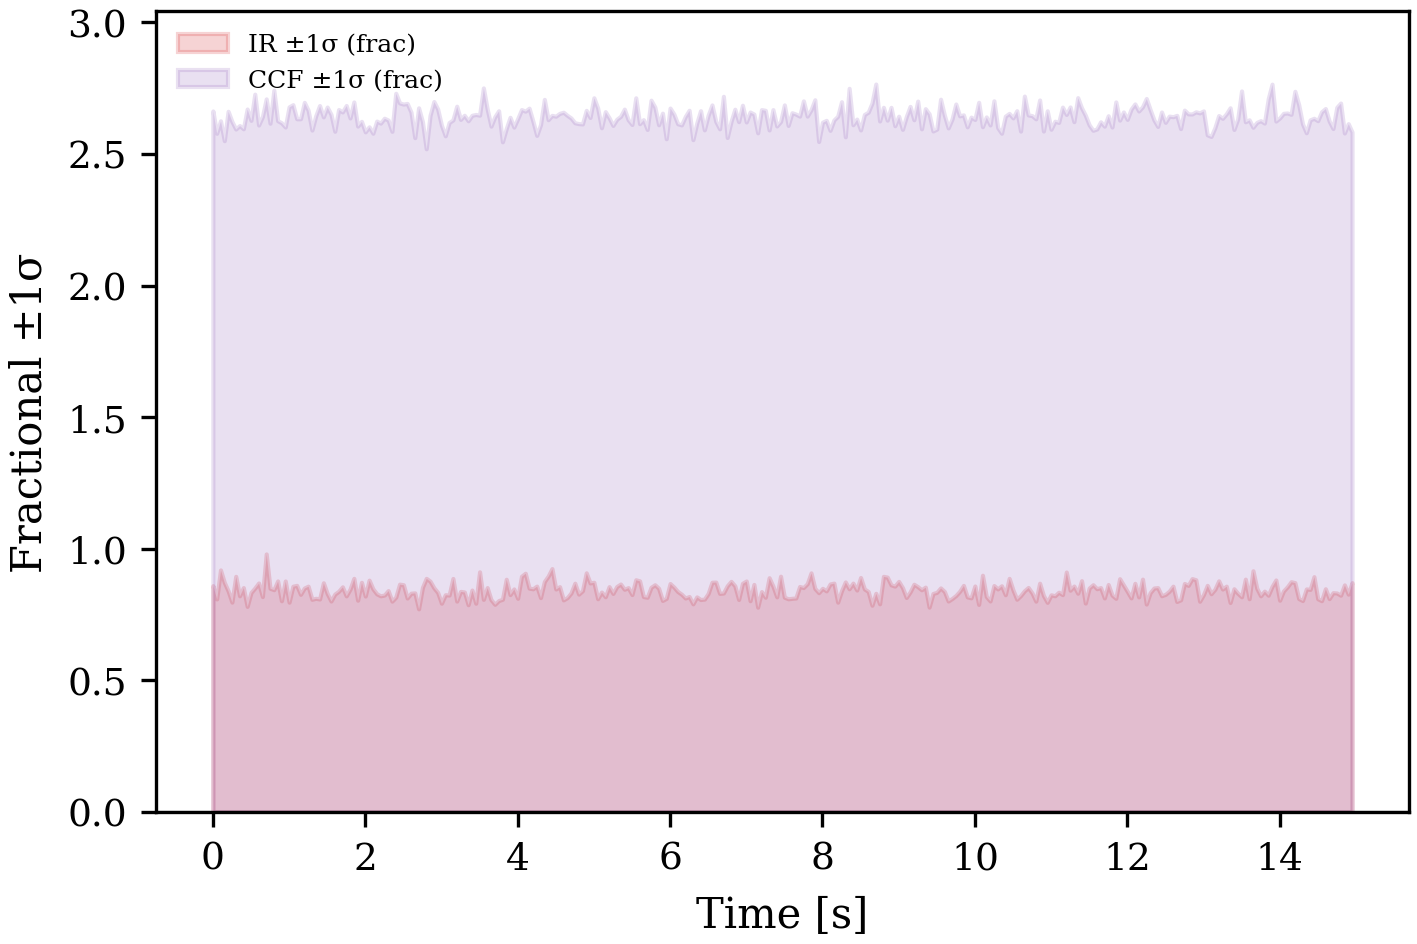
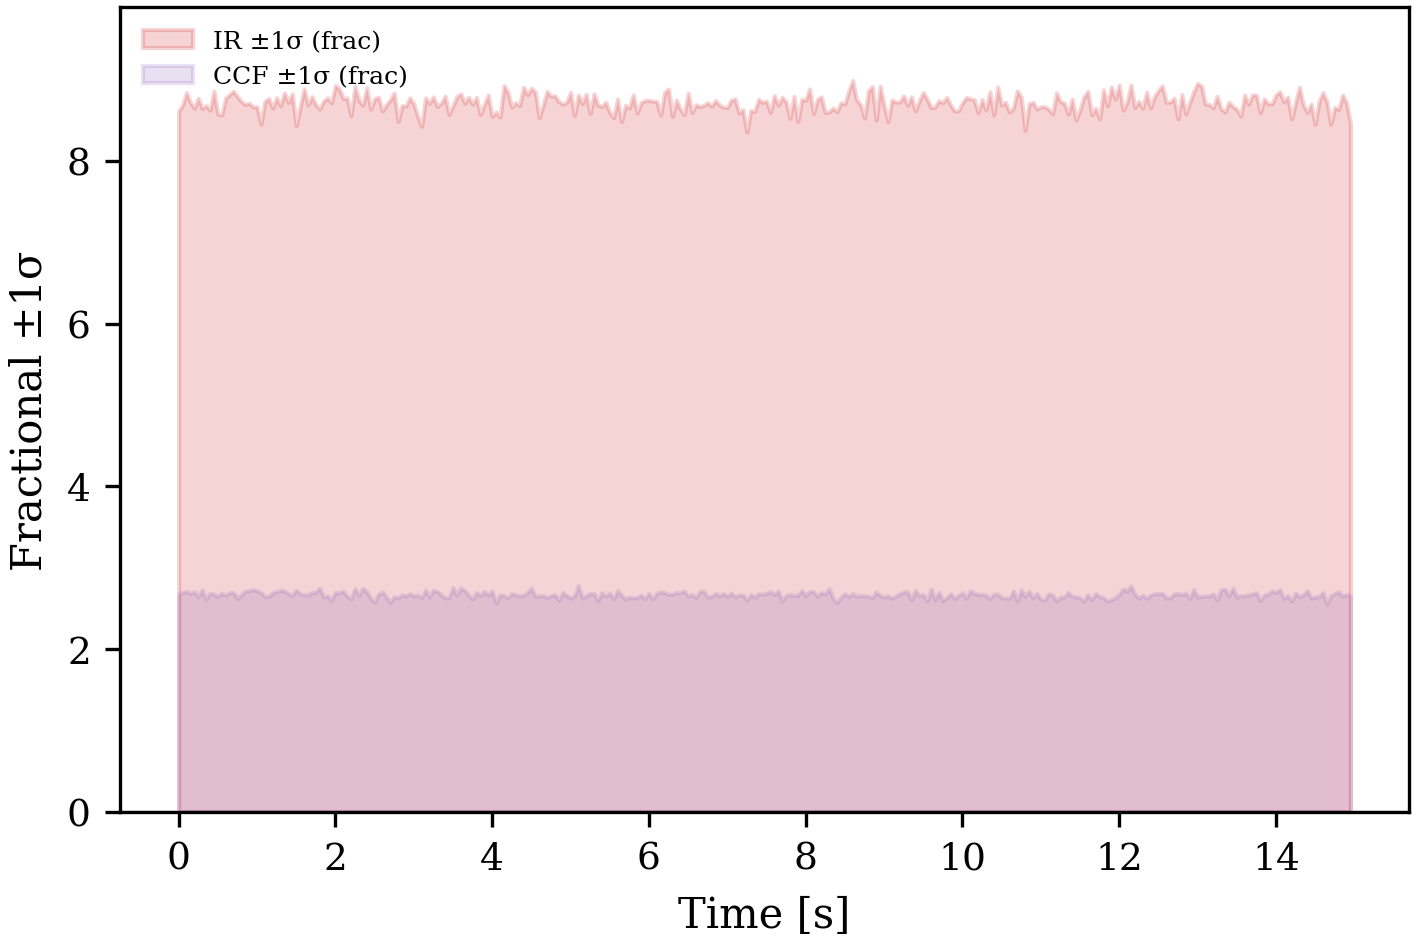
Updated paper with final experiment 2 ANT.

diff --git a/paper/stochastic_process_impulse_response_models.tex b/paper/stochastic_process_impulse_response_models.tex
@@ -41,7 +41,7 @@ This is a draft version of work in progress, content will be revisited in subseq
 
 
 \begin{abstract}
-The identification of Linear Time-Varying (LTV) systems from input-output data is a fundamental yet challenging ill-posed inverse problem. This work introduces a unified Bayesian framework that models the system's impulse response, $h(t, \tau)$, as a stochastic process. We decompose the response into a posterior mean and a random fluctuation term, a formulation that provides a principled approach for quantifying uncertainty, unifies intrinsic channel variability and epistemic uncertainty through a common posterior representation, and naturally defines a new, useful system class we term Linear Time-Invariant in Expectation (LTIE). To perform inference, we leverage modern machine learning techniques, including Bayesian neural networks and Gaussian Processes, using scalable variational inference. We demonstrate through a series of experiments that our framework can infer the properties of an LTI system from a single noisy observation, including under deliberate additive-noise misspecification, exhibits favorable data efficiency compared to classical methods in a simulated ambient noise tomography problem, and can track a continuously varying LTV impulse response by using a structured Gaussian Process prior. This work provides a flexible and robust methodology for uncertainty-aware system identification in dynamic environments.
+The identification of Linear Time-Varying (LTV) systems from input-output data is a fundamental yet challenging ill-posed inverse problem. This work introduces a unified Bayesian framework that models the system's impulse response, $h(t, \tau)$, as a stochastic process. We decompose the response into a posterior mean and a random fluctuation term, a formulation that provides a principled approach for quantifying uncertainty, unifies intrinsic channel variability and epistemic uncertainty through a common posterior representation, and naturally defines a new, useful system class we term Linear Time-Invariant in Expectation (LTIE). To perform inference, we leverage modern machine learning techniques, including Bayesian neural networks and Gaussian Processes, using scalable variational inference. We demonstrate through a series of experiments that our framework can infer the properties of an LTI system from a single noisy observation, including under deliberate additive-noise misspecification, exhibits convergence to lower overall error floor compared to classical methods in a simulated ambient noise tomography problem, and can track a continuously varying LTV impulse response by using a structured Gaussian Process prior. This work provides a flexible and robust methodology for uncertainty-aware system identification in dynamic environments.
 \end{abstract}
 
 \end{frontmatter}
@@ -297,7 +297,7 @@ A synthetic ambient noise field was generated using a ground-truth dispersive ve
 \begin{enumerate}
     \item \textbf{Classical CCF Stacking:} Signal pairs were preprocessed with spectral whitening, segmented into windows, and cross-correlated; the resulting correlations were then averaged (stacked) to produce a single empirical CCF, following the standard ANT workflow \citep{Bensen2007}. This stacked CCF serves as an estimate of the impulse response.
 
-    \item \textbf{Bayesian Regression:} Our model operated directly on the raw (non-whitened) signal pairs. It was used to deconvolve the source characteristics and infer an approximate posterior distribution for the true impulse response. The mean of this approximate posterior (Mean Impulse Response, or MIR) serves as our final estimate. The variational objective used the same KL normalization convention as in the previous experiments, namely scaling with the number of statistically distinct training pairs rather than the computational batch size.
+    \item \textbf{Bayesian Regression:} Our model operated directly on the raw (non-whitened) signal pairs. It was used to deconvolve the source characteristics and infer an approximate posterior distribution for the true impulse response. The mean of this approximate posterior (Mean Impulse Response, or MIR) serves as our final estimate. The variational objective used the same KL normalization convention as in the previous experiments, namely scaling with the number of statistically distinct training pairs rather than the computational batch size. In this ANT experiment, the Gaussian data-fit term used a residual-estimated observation-noise scale, so the weighting $\lambda = 1/(2\hat{\sigma}_{\mathrm{obs}}^2)$ was updated during training via a non-trainable moving-average estimate outside backpropagation.
 \end{enumerate}
 
 For both methods, the final step was to derive the phase velocity curve from the estimated impulse response. This was achieved by fitting the frequency-domain representation of the estimate against theoretical beam patterns derived from the zeroth-order Bessel function of the first kind ($J_0$), following the standard spectral formulation used in ANT \citep{Aki1957, Ekstrom2009}.
@@ -305,11 +305,11 @@ For both methods, the final step was to derive the phase velocity curve from the
 Accordingly, this ANT comparison should be interpreted as a comparison between practical end-to-end pipelines rather than as a strictly preprocessing-matched estimator comparison. The distinction matters because the classical CCF baseline benefits from whitening for phase-based recovery, whereas our Bayesian method is designed to operate on raw data and to retain spectral-amplitude information relevant to impulse-response inference.
 
 \subsubsection{Results and Discussion}
-Both methods effectively recovered the underlying velocity structure, but in these simulations the Bayesian approach showed lower error and better data efficiency. A visual comparison of the Green's function estimates using 2000 signal pairs (Figures~\ref{fig:ant_ccf_estimate} and \ref{fig:ant_mir_estimate}) shows that the Bayesian MIR is smoother and exhibits a tighter uncertainty band. These bands should be interpreted with care: for the classical CCF estimate the plotted band is an empirical standard deviation across stacked estimates, whereas for the Bayesian MIR it is posterior epistemic uncertainty, so the two are not identical statistical objects. This is quantified in Figure~\ref{fig:ant_quantitative_comparison}, where the MIR exhibits lower relative uncertainty and lower velocity estimation error across much of the frequency spectrum. The reason for this improved performance is evident in the velocity misfit maps (Figure~\ref{fig:ant_misfit_maps_comparison}), where the Bayesian method produces a clearer result.
+Both methods effectively recovered the underlying velocity structure, but in these simulations the Bayesian approach showed lower error floor. A visual comparison of the Green's function estimates using 2000 signal pairs (Figures~\ref{fig:ant_ccf_estimate} and \ref{fig:ant_mir_estimate}) shows that the Bayesian MIR is smoother and exhibits a tighter uncertainty band. These bands should be interpreted with care: for the classical CCF estimate the plotted band is an empirical standard deviation across stacked estimates, whereas for the Bayesian MIR it is posterior epistemic uncertainty, so the two are not identical statistical objects. This is quantified in Figure~\ref{fig:ant_quantitative_comparison}, where the MIR exhibits lower relative uncertainty and lower velocity estimation error across much of the frequency spectrum. The reason for this improved performance is evident in the velocity misfit maps (Figure~\ref{fig:ant_misfit_maps_comparison}), where the Bayesian method produces a clearer result.
 
-In the standard experiment (without quantization), our Bayesian model (MIR) shows better performance than the classical CCF method in this simulated setting, approaching a lower error floor in Figure~\ref{fig:ant_error_vs_num_pairs}, which plots the estimation error as a function of the number of pairs. With sufficient data, our method reached a minimum error of approximately 0.213 compared to 0.268 for the classical approach.
+In the standard experiment (without quantization), our Bayesian model (MIR) shows better performance than the classical CCF method in this simulated setting, approaching a lower error floor in Figure~\ref{fig:ant_error_vs_num_pairs}, which plots the estimation error as a function of the number of pairs. Over the sweep from 1000 to 15{,}000 pairs, the MIR achieved a lower mean target-curve error (0.225 versus 0.245 for CCF) and a lower minimum error (approximately 0.188 versus 0.201 for CCF). In a representative 12{,}000-pair run, the MIR mean error using the recovered velocity curve was approximately 0.207, compared with 0.262 for the classical method.
 
-A similar trend was observed in a more challenging scenario involving aggressive 1-bit quantization of the signals. While both methods remained effective, our Bayesian model again showed lower error in these simulations. For example, with 10,000 pairs, our model's error was approximately 0.258, while the classical method's error was 0.316. In this setting, the performance of the CCF method appeared to saturate more quickly, whereas our Bayesian approach continued to improve as more pairs were included.
+A similar trend was observed in a more challenging scenario involving aggressive 1-bit quantization of the signals. While both methods remained effective, our Bayesian model again showed lower error in these simulations. Using the same settings except for doubling the Bayesian batch size, the MIR achieved a lower mean target-curve error across the 1000 to 15{,}000 pair sweep (0.241 versus 0.269 for CCF) and a lower minimum error (approximately 0.178 versus 0.221 for CCF). With 15{,}000 pairs, the MIR mean error at the true velocity was approximately 0.191, while the classical method's error was 0.242.
 
 The results suggest that by learning a complete probabilistic model of the impulse response rather than simply averaging correlations, our method can extract system properties more accurately and from fewer observations in this simulated setting. This is particularly advantageous in data-limited scenarios and highlights the practical benefits of the Bayesian framework. A significant qualitative advantage of our approach is that it does not require the spectral whitening step common in classical ANT pipelines \citep{Bensen2007}. While whitening often improves the quality of Green's function estimates in the classical phase-focused pipeline, it also alters the original spectral amplitudes of the transfer function. By working with the raw data, our method retains the system's frequency response, allowing for an estimation of the transfer function between the virtual source and receiver. This task is more challenging in classical pipelines where the effects of whitening are difficult to reverse.
 
@@ -349,7 +349,7 @@ As in the single-observation LTI experiment, this result should therefore be int
 
 This paper introduced a unified Bayesian framework for modeling and estimating linear time-varying systems. By representing uncertainty directly at the level of the latent impulse response, the framework provides a posterior interpretation that connects deterministic LTI systems, fully stochastic channels, and LTIE laws over impulse responses. A particular strength of this viewpoint is that intrinsic channel variability and epistemic uncertainty are unified through the same posterior representation, while additive observation noise can be treated as a separate observation layer when needed. When the true data-generating mechanism instead includes a separate additive observation-noise term, the resulting posterior should be interpreted as an uncertainty-aware inferential representation rather than as a literal claim about the physical source of all randomness.
 
-We demonstrated the practical utility and robustness of this framework through a series of experiments. Our results showed that by leveraging modern tools like Bayesian neural networks and variational inference, we can solve the classic, ill-posed deconvolution problem for an LTI system from a single noisy observation, successfully quantifying the estimation uncertainty. In a simulated geophysical application, our Bayesian approach showed better data efficiency than the classical cross-correlation stacking method. Furthermore, we demonstrated that by incorporating a Gaussian Process as a structured temporal prior, our framework can track a continuously varying LTV impulse response in the simulated setting considered here, a task that is challenging for many standard techniques.
+We demonstrated the practical utility and robustness of this framework through a series of experiments. Our results showed that by leveraging modern tools like Bayesian neural networks and variational inference, we can solve the classic, ill-posed deconvolution problem for an LTI system from a single noisy observation, successfully quantifying the estimation uncertainty. In a simulated geophysical application, our Bayesian approach showed convergence to lower overall error floor than the classical cross-correlation stacking method. Furthermore, we demonstrated that by incorporating a Gaussian Process as a structured temporal prior, our framework can track a continuously varying LTV impulse response in the simulated setting considered here, a task that is challenging for many standard techniques.
 
 The primary implication of this work is that the fusion of classical system theory with probabilistic machine learning offers a more complete and honest assessment of system behavior. The ability to propagate uncertainty from the impulse response to any derived quantity such as a denoised signal or a cross-correlation function is critical for robust decision-making in fields like control theory, communications, and geophysics.
 
@@ -373,7 +373,7 @@ The input signal was a single series from the UCR ``Earthquakes'' dataset. The g
 A repeated synthetic calibration study was also run with $100$ outer replications, known noise standard deviation $0.5$, and pointwise tapwise coverage checks for the approximate variational posterior. For $1$ independent observation pair, nominal $90\%$ and $95\%$ intervals achieved empirical coverages of $97.5\%$ and $99.4\%$, with mean interval widths $0.124$ and $0.147$. For $20$ independent pairs, both nominal levels achieved $100\%$ empirical coverage with mean widths $0.090$ and $0.107$, and for $50$ independent pairs the corresponding mean widths were $0.089$ and $0.106$. Thus, in this synthetic LTIE setting, the pointwise intervals were conservative, while uncertainty contracted substantially as more independent observations were added.
 
 \paragraph{ANT experiment.}
-The synthetic ANT dataset comprised $10{,}000$ receiver pairs, each of length $1200$ samples, with sample rate $20$ Hz, receiver spacing $9000$ m, and additive Gaussian noise standard deviation $0.1$. Each pair was generated from $10{,}000$ decaying sinusoidal source pulses of length $50$ samples, with random amplitude in $[-1.5,1.5]$, random frequency in $[0.1,10]$ Hz, and decay constant $\tau \in [0.5,2.5]$; the target dispersive curve was anchored at $(0.1~\text{Hz},3500~\text{m/s})$, $(1~\text{Hz},3000~\text{m/s})$, and $(10~\text{Hz},1000~\text{m/s})$. The Bayesian LTIE estimator used \texttt{batch\_size\_base}=2000, $\alpha=1$, $1500$ epochs, and Adam with the same $4\%$ warmup/cosine schedule and target learning rate $0.1$. Performance was evaluated for $50$, $100,200,\ldots,1000$, and $2000,3000,\ldots,10000$ pairs, on a velocity grid from $500$ to $5000$ m/s with $226$ points and a frequency grid from $0.1$ to $4.0$ Hz with $300$ points. The standard experiment in the main text did not use 1-bit quantization, and the Bayesian MIR was trained directly on non-whitened signal pairs. The shaded CCF bands are empirical mean $\pm 1$ standard deviation across selected pairs, while the velocity-misfit uncertainty bands are pointwise $2.5\%$--$97.5\%$ sample percentiles.
+The synthetic ANT dataset comprised up to $15{,}000$ IID receiver pairs, each of length $1200$ samples, with sample rate $20$ Hz, receiver spacing $9000$ m, and additive Gaussian noise standard deviation $0.1$. Each pair was generated from $10{,}000$ decaying sinusoidal source pulses of length $50$ samples, with random amplitude in $[-1.5,1.5]$, random frequency in $[0.1,10]$ Hz, and decay constant $\tau \in [0.5,2.5]$; the target dispersive curve was anchored at $(0.1~\text{Hz},3500~\text{m/s})$, $(1~\text{Hz},3000~\text{m/s})$, and $(10~\text{Hz},1000~\text{m/s})$. The Bayesian LTIE estimator used \texttt{batch\_size\_base}=2000, $\alpha=1$, $500$ epochs, and Adam with the same $4\%$ warmup/cosine schedule and target learning rate $0.1$. In the full-precision experiment, the Gaussian data-fit weight used a residual-estimated observation-noise scale. Performance was evaluated for $1000,2000,\ldots,15000$ pairs, on a velocity grid from $500$ to $5000$ m/s with $226$ points and a frequency grid from $0.1$ to $3.0$ Hz with $300$ points. The standard experiment in the main text did not use 1-bit quantization, and the Bayesian MIR was trained directly on non-whitened signal pairs. For the 1-bit experiment, the same settings were used except that \texttt{batch\_size\_base} was increased to $4000$. The shaded CCF bands are empirical mean $\pm 1$ standard deviation across selected pairs, while the velocity-misfit uncertainty bands are pointwise $2.5\%$--$97.5\%$ sample percentiles.
 
 \paragraph{LTV experiment.}
 The ground-truth time-varying FIR used $16$ taps and was formed by smoothly interpolating between three FIRs generated with \texttt{firwin} cutoffs $[0.05,0.4,0.6,0.95]$, $[0.2,0.93]$, and $[0.09,0.89]$, each with width $0.05$ and \texttt{pass\_zero=False}. The observed signal used additive Gaussian noise with standard deviation $0.2$. Local inference windows had length $32$ and were extracted at unit stride; the $291$ unique windows were tiled twice for training, yielding tensors of shapes $(582,32,1)$, $(582,32,16)$, and $(582,32)$. The amortized variational model used $64$ initial CNN filters and a GP prior with RBF amplitude $2.0$, length scale $16$, kernel jitter $10^{-5}$, and KL scaling $5 \times 10^{-5}$. Training used Adam with cosine warmup/decay from learning rate $0$ to $0.003$, warmup over $4\%$ of $7000$ epochs, and full-batch optimization. The final global estimate was formed by averaging overlapping local impulse-response predictions during stitching.
@@ -466,8 +466,8 @@ The ground-truth time-varying FIR used $16$ taps and was formed by smoothly inte
 
 \begin{figure}[!h]
     \centering
-    \includegraphics[width=0.8\textwidth]{ant_target_velocity_mean_mismatch_for_num_pairs_full_0.1_to-3.0_hz_matplotlib.png}
-    \caption{Performance comparison showing target velocity mismatch error as a function of the number of signal pairs used. The Bayesian MIR method (red) demonstrates superior data efficiency, achieving a lower error with fewer observations and converging to a lower overall error floor compared to the classical CCF method (purple).}
+    \includegraphics[width=0.8\textwidth]{ant_target_velocity_mean_mismatch_for_num_pairs_full_no_mir_white_0.1_to-3.5_hz_matplotlib.png}
+    \caption{Performance comparison showing target velocity mismatch error as a function of the number of signal pairs used. The Bayesian MIR method (red) converges to a lower overall error floor compared to the classical CCF method (purple).}
     \label{fig:ant_error_vs_num_pairs}
 \end{figure}
 

diff --git a/tests/experiments_tests/ltv_estimation_tests/test_plots_utils.py b/tests/experiments_tests/ltv_estimation_tests/test_plots_utils.py
@@ -37,6 +37,8 @@ def test_plot_fir_ground_truth_components_matplotlib_smoke(
         f_linear_phase1=np.array([1.0, 0.5, -0.1]),
         f_linear_phase2=np.array([0.8, 0.3, -0.2]),
         f_linear_phase3=np.array([0.7, 0.1, -0.3]),
-        plots_file=test_artifacts_dir.joinpath("ltv_plot_fir_gt_components_matplotlib.png"),
+        plots_file=test_artifacts_dir.joinpath(
+            "ltv_plot_fir_gt_components_matplotlib.png"
+        ),
         include_title_in_plots=False,
     )

diff --git a/tests/experiments_tests/test_plots_utils_common.py b/tests/experiments_tests/test_plots_utils_common.py
@@ -35,7 +35,9 @@ def test_plot_all_signals_matplotlib_smoke(
         source=np.array([1.0, 2.0, 3.0, 4.0]),
         received=np.array([0.5, 1.5, 2.5]),
         received_noisy=np.array([0.4, 1.4, 2.4]),
-        plots_file=test_artifacts_dir.joinpath("common_plot_all_signals_matplotlib.png"),
+        plots_file=test_artifacts_dir.joinpath(
+            "common_plot_all_signals_matplotlib.png"
+        ),
         include_title_in_plots=False,
     )
 
